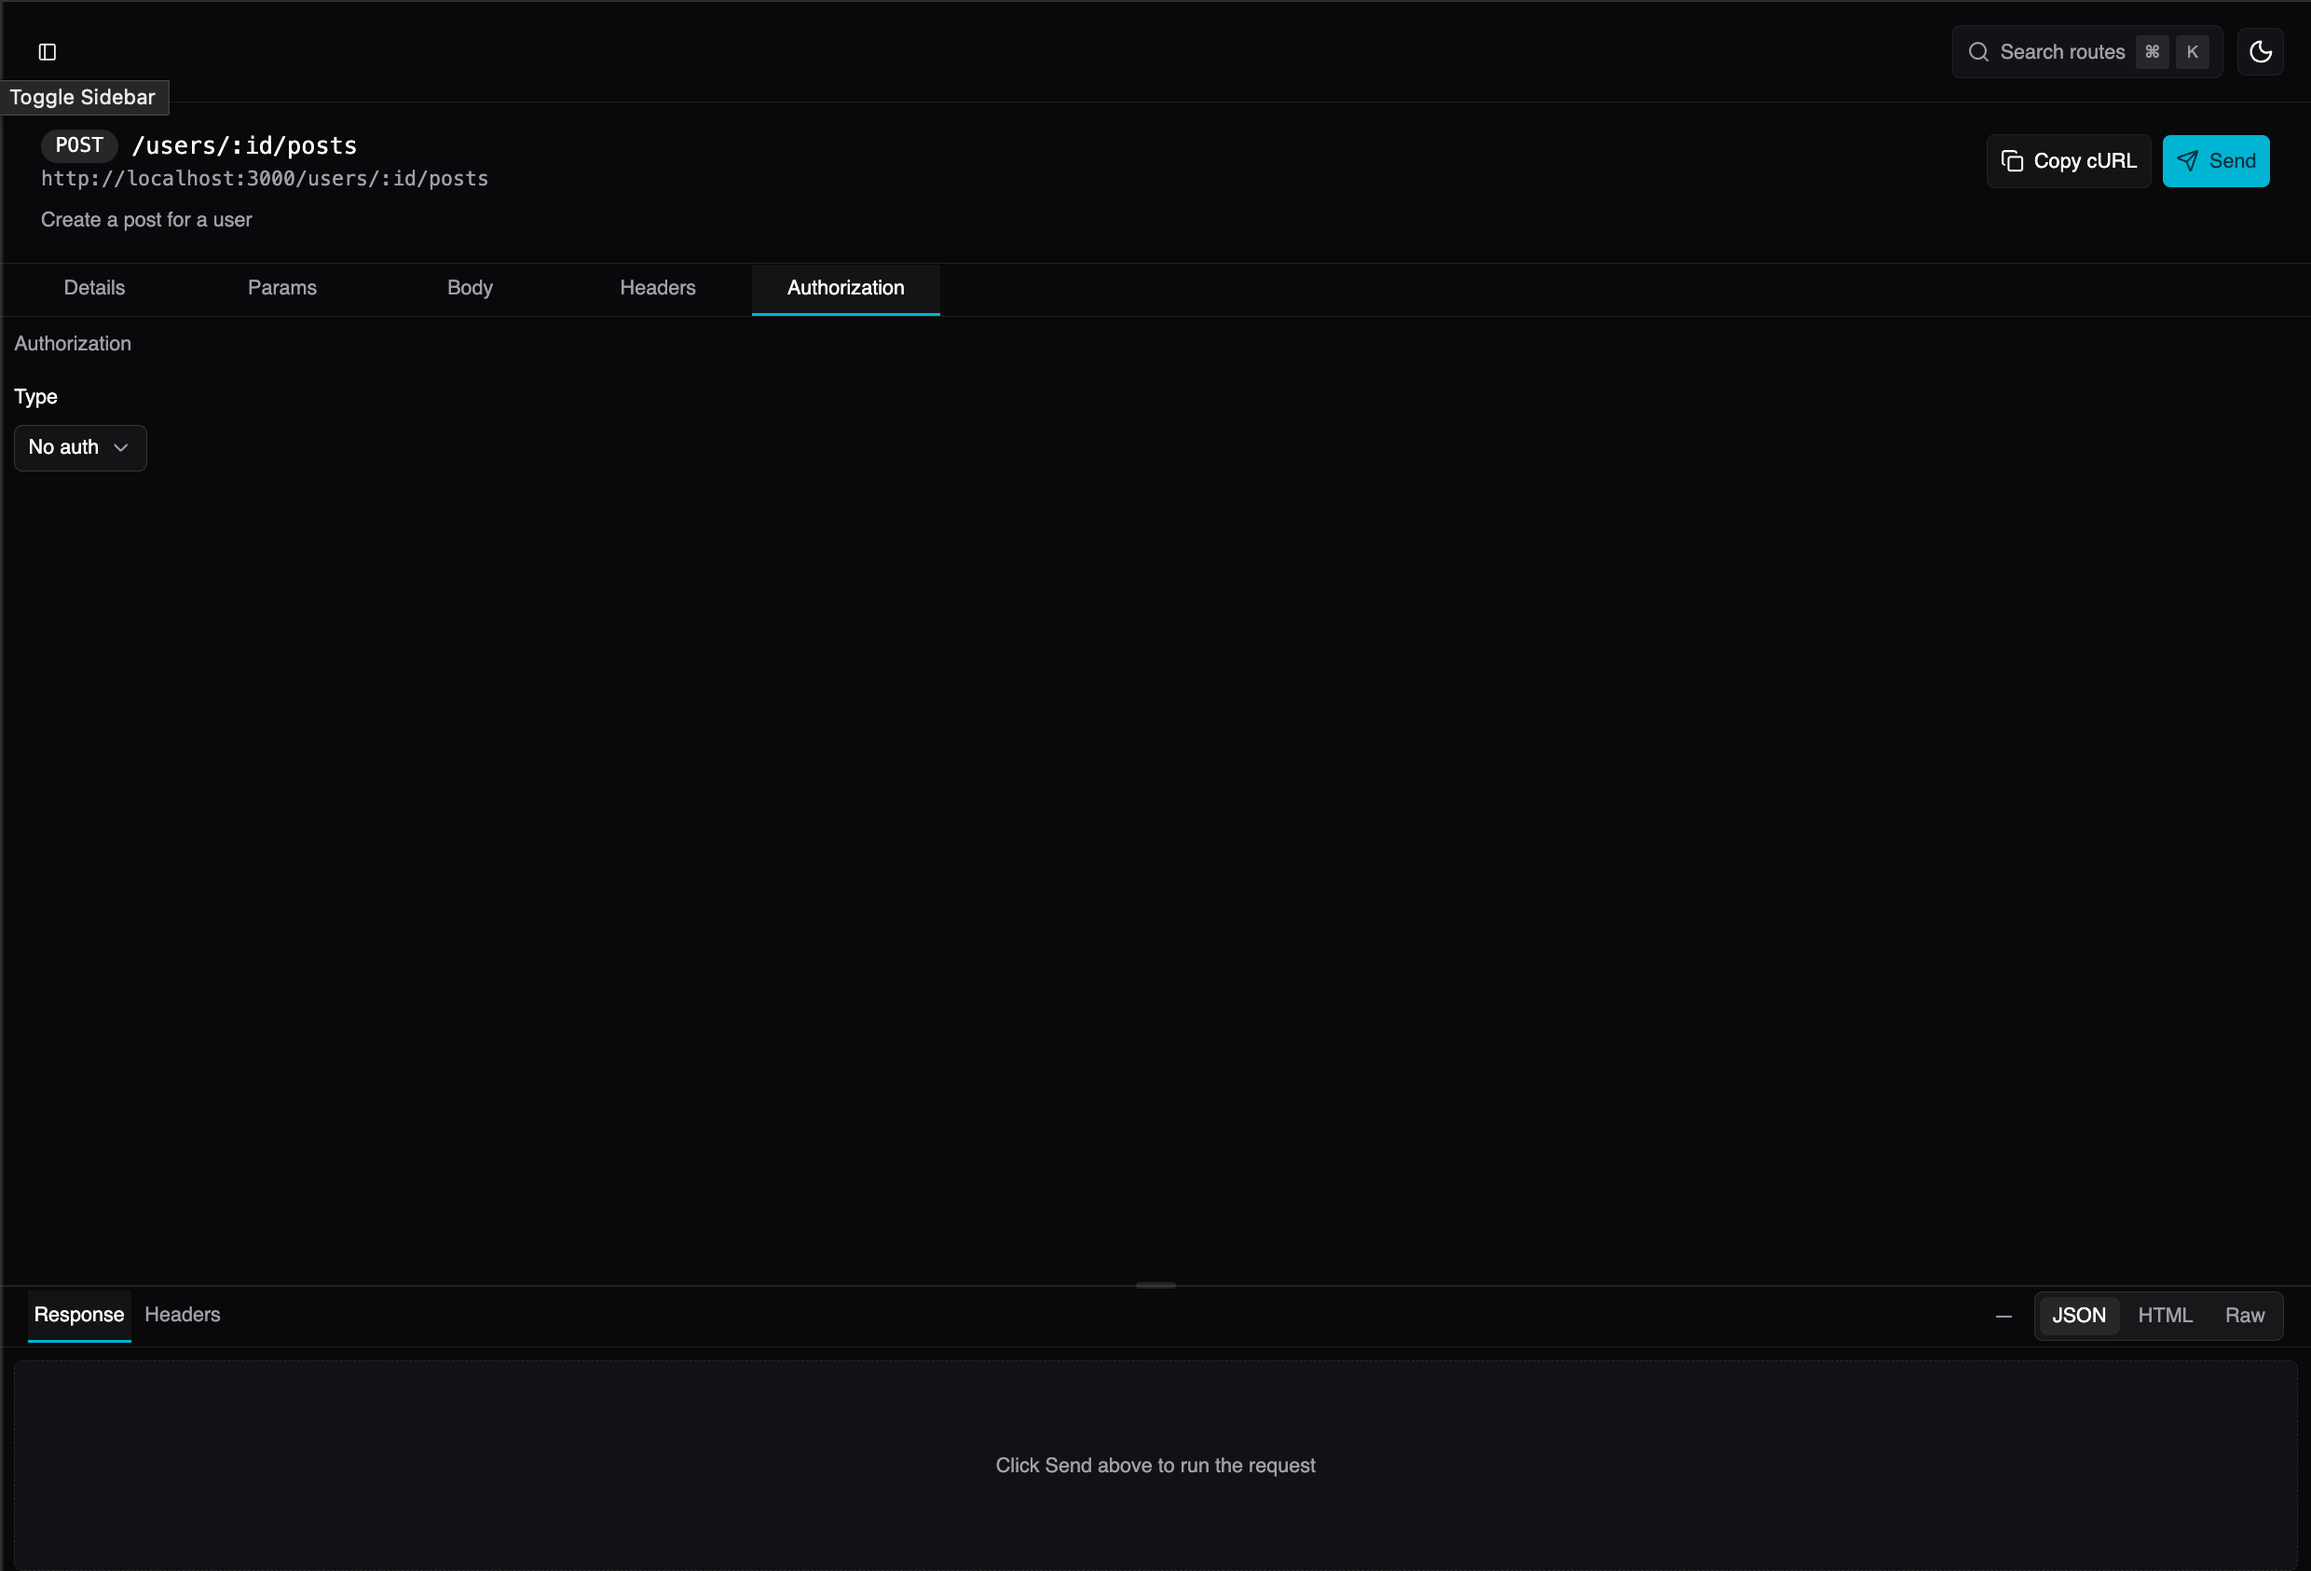
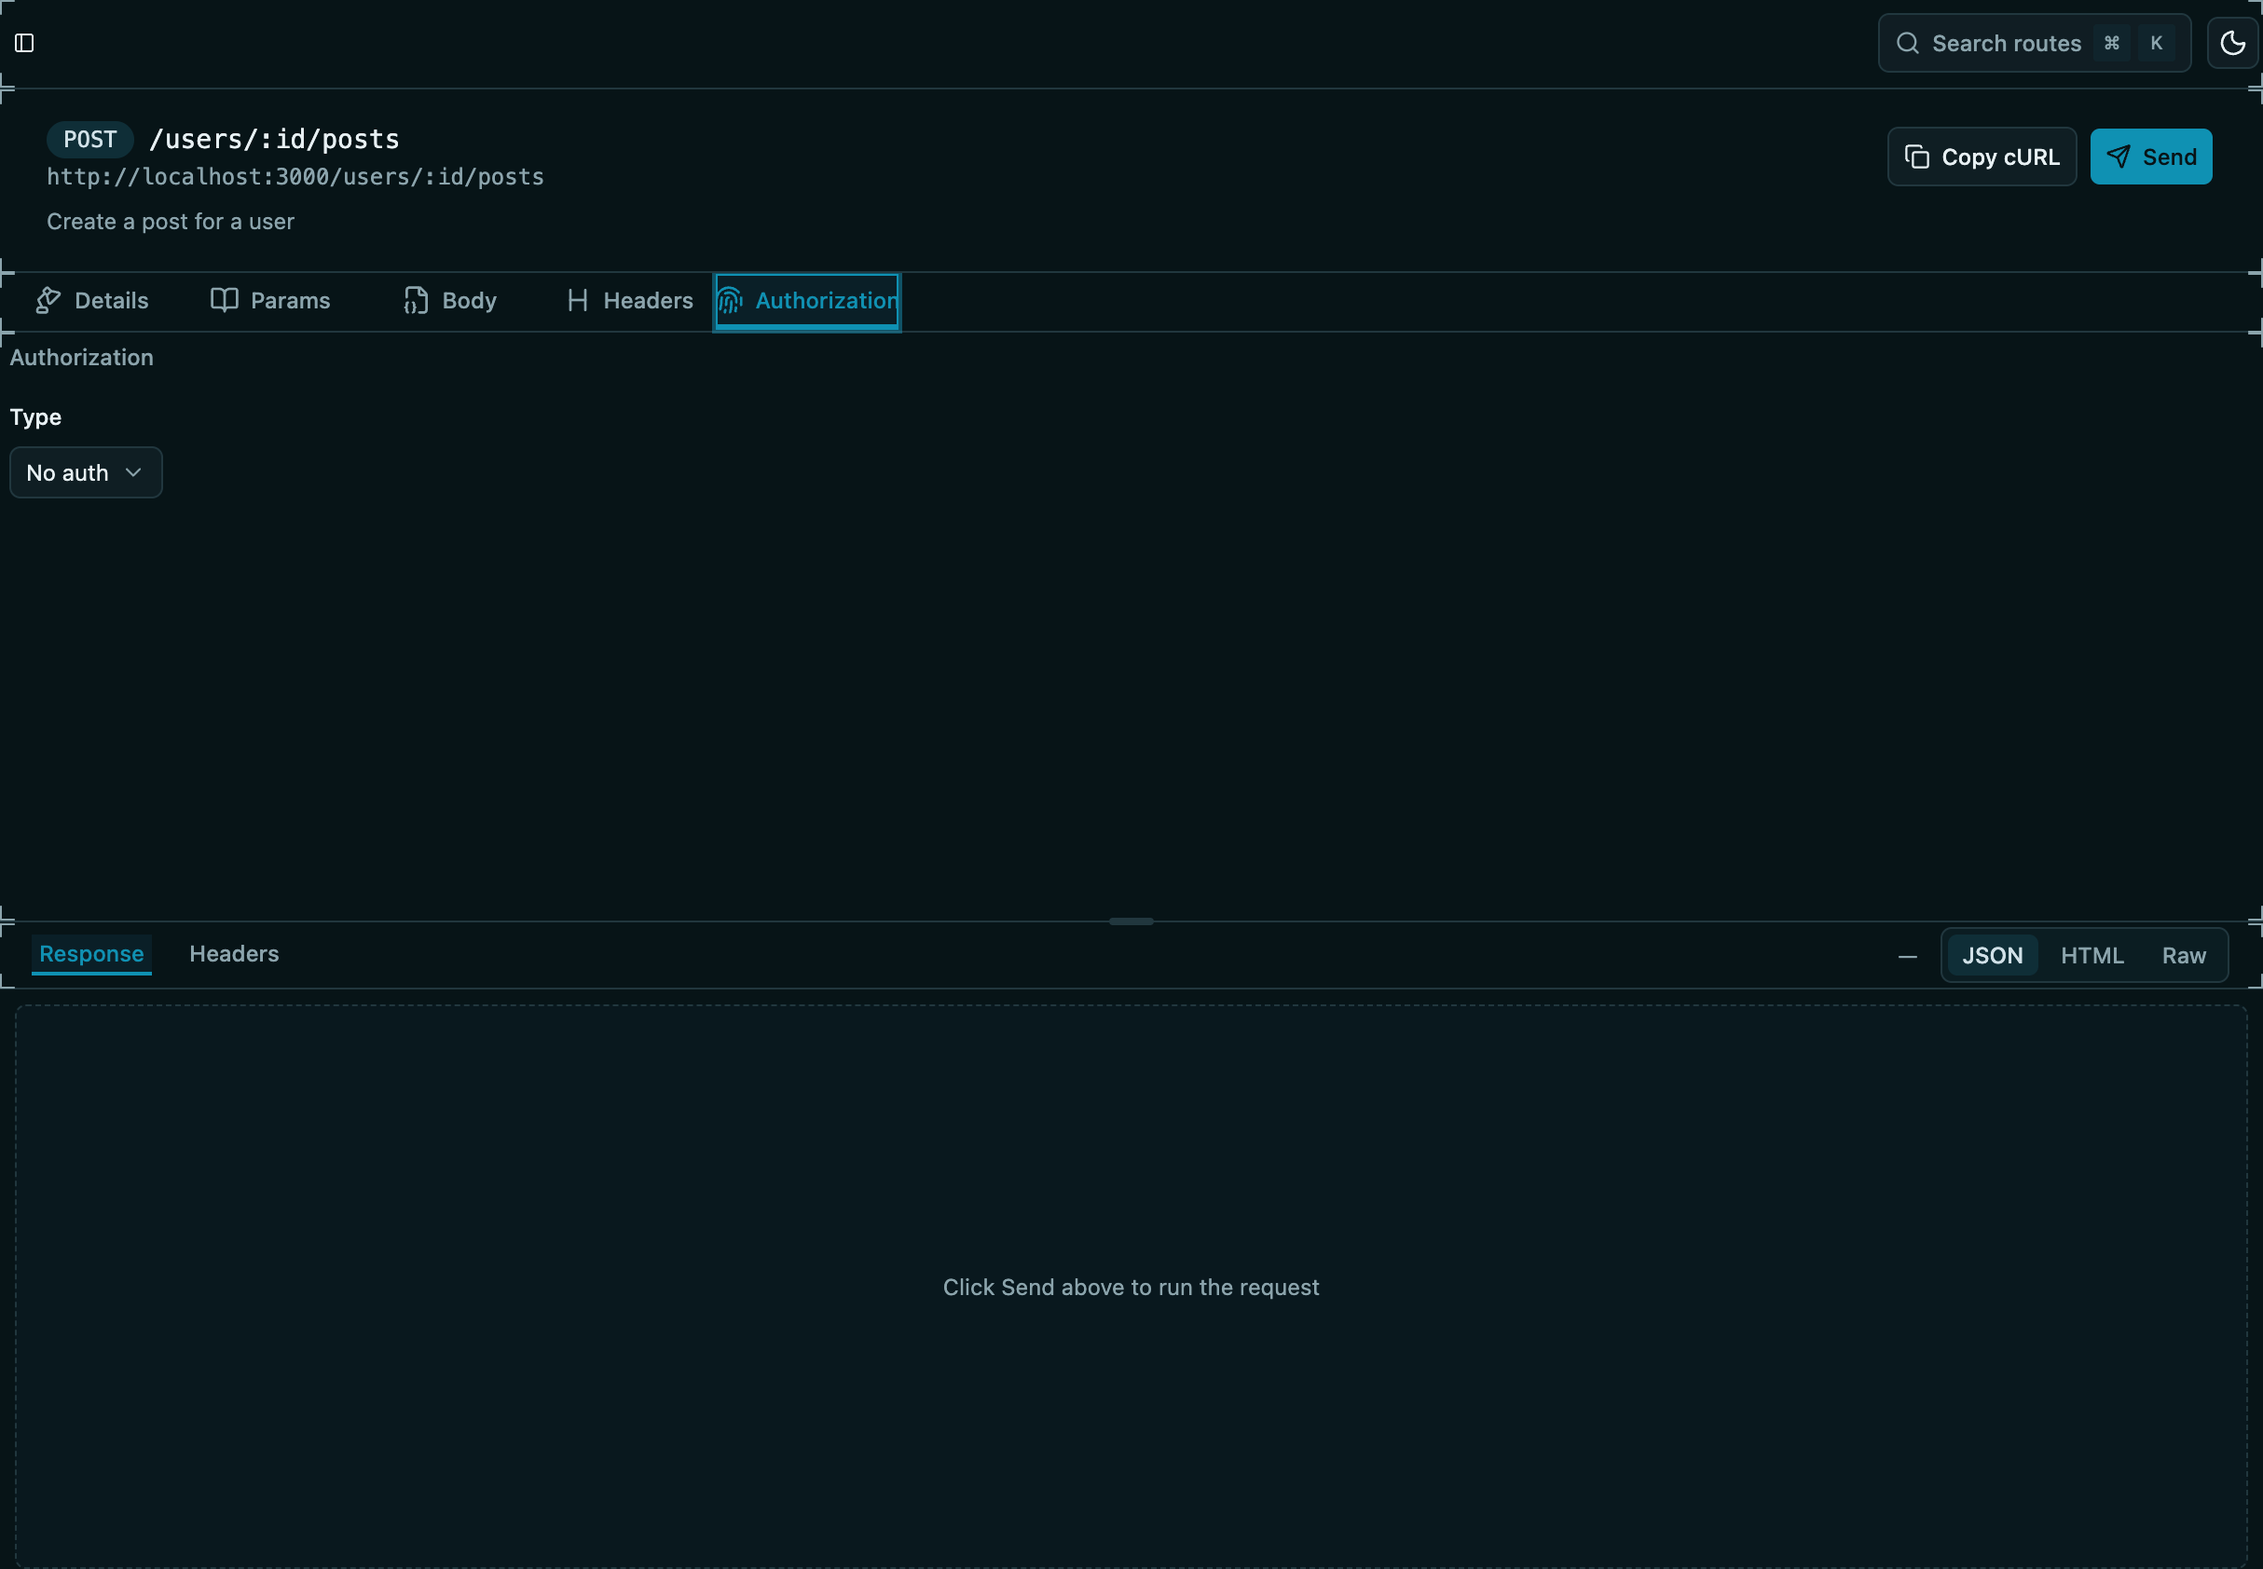
Update global styles, enhance feature showcase, and improve documentation
- Updated global CSS variables for fonts, colors, and shadows to enhance UI consistency.
- Modified feature showcase section to reflect updated Tracelet integration and improved code examples.
- Enhanced hero component text for clarity and conciseness.
- Updated MDX renderer to include border styling for images.
- Revised SDK documentation to simplify installation instructions and clarify usage examples for Tracelet core and Express SDKs.
- Added new screenshots for better visual representation of the application features.

diff --git a/apps/frontend/app/globals.css b/apps/frontend/app/globals.css
@@ -8,8 +8,8 @@
 @theme inline {
   --color-background: var(--background);
   --color-foreground: var(--foreground);
-  --font-sans: var(--font-sans);
-  --font-mono: var(--font-geist-mono);
+  --font-sans: Inter, system-ui, sans-serif;
+  --font-mono: JetBrains Mono, monospace;
   --color-sidebar-ring: var(--sidebar-ring);
   --color-sidebar-border: var(--sidebar-border);
   --color-sidebar-accent-foreground: var(--sidebar-accent-foreground);
@@ -46,80 +46,145 @@
   --radius-2xl: calc(var(--radius) + 8px);
   --radius-3xl: calc(var(--radius) + 12px);
   --radius-4xl: calc(var(--radius) + 16px);
+  --font-serif: Georgia, serif;
+  --radius: 0.5rem;
+  --tracking-tighter: calc(var(--tracking-normal) - 0.05em);
+  --tracking-tight: calc(var(--tracking-normal) - 0.025em);
+  --tracking-wide: calc(var(--tracking-normal) + 0.025em);
+  --tracking-wider: calc(var(--tracking-normal) + 0.05em);
+  --tracking-widest: calc(var(--tracking-normal) + 0.1em);
+  --tracking-normal: var(--tracking-normal);
+  --shadow-2xl: var(--shadow-2xl);
+  --shadow-xl: var(--shadow-xl);
+  --shadow-lg: var(--shadow-lg);
+  --shadow-md: var(--shadow-md);
+  --shadow: var(--shadow);
+  --shadow-sm: var(--shadow-sm);
+  --shadow-xs: var(--shadow-xs);
+  --shadow-2xs: var(--shadow-2xs);
+  --spacing: var(--spacing);
+  --letter-spacing: var(--letter-spacing);
+  --shadow-offset-y: var(--shadow-offset-y);
+  --shadow-offset-x: var(--shadow-offset-x);
+  --shadow-spread: var(--shadow-spread);
+  --shadow-blur: var(--shadow-blur);
+  --shadow-opacity: var(--shadow-opacity);
+  --color-shadow-color: var(--shadow-color);
+  --color-destructive-foreground: var(--destructive-foreground);
 
   --breakpoint-md: 49rem;
   --breakpoint-lg: 65rem;
 }
 
 :root {
-  --background: oklch(1 0 0);
-  --foreground: oklch(0.145 0 0);
+  --radius: 0.5rem;
+  --background: oklch(0.9800 0.0100 222);
+  --foreground: oklch(0.2500 0.0500 222);
   --card: oklch(1 0 0);
-  --card-foreground: oklch(0.145 0 0);
+  --card-foreground: oklch(0.2500 0.0500 222);
   --popover: oklch(1 0 0);
-  --popover-foreground: oklch(0.145 0 0);
-  --primary: oklch(0.61 0.11 222);
-  --primary-foreground: oklch(0.98 0.02 201);
-  --secondary: oklch(0.967 0.001 286.375);
-  --secondary-foreground: oklch(0.21 0.006 285.885);
-  --muted: oklch(0.97 0 0);
-  --muted-foreground: oklch(0.556 0 0);
-  --accent: oklch(0.97 0 0);
-  --accent-foreground: oklch(0.205 0 0);
-  --destructive: oklch(0.58 0.22 27);
-  --border: oklch(0.922 0 0);
-  --input: oklch(0.922 0 0);
-  --ring: oklch(0.708 0 0);
-  --chart-1: oklch(0.87 0.12 207);
-  --chart-2: oklch(0.8 0.13 212);
-  --chart-3: oklch(0.71 0.13 215);
-  --chart-4: oklch(0.61 0.11 222);
-  --chart-5: oklch(0.52 0.09 223);
-  --radius: 0rem;
-  --sidebar: oklch(0.985 0 0);
-  --sidebar-foreground: oklch(0.145 0 0);
-  --sidebar-primary: oklch(0.61 0.11 222);
-  --sidebar-primary-foreground: oklch(0.98 0.02 201);
-  --sidebar-accent: oklch(0.97 0 0);
-  --sidebar-accent-foreground: oklch(0.205 0 0);
-  --sidebar-border: oklch(0.922 0 0);
-  --sidebar-ring: oklch(0.708 0 0);
-
-  --landing-nav-height: 64px;
+  --popover-foreground: oklch(0.2500 0.0500 222);
+  --primary: oklch(0.6100 0.1100 222);
+  --primary-foreground: oklch(0.9800 0.0100 222);
+  --secondary: oklch(0.9200 0.0300 222);
+  --secondary-foreground: oklch(0.3000 0.0800 222);
+  --muted: oklch(0.9500 0.0200 222);
+  --muted-foreground: oklch(0.4500 0.0500 222);
+  --accent: oklch(0.9200 0.0400 222);
+  --accent-foreground: oklch(0.3000 0.0800 222);
+  --destructive: oklch(0.6000 0.1800 25);
+  --border: oklch(0.8800 0.0200 222);
+  --input: oklch(0.8800 0.0200 222);
+  --ring: oklch(0.6100 0.1100 222);
+  --chart-1: oklch(0.6100 0.1100 222);
+  --chart-2: oklch(0.7000 0.0800 200);
+  --chart-3: oklch(0.5000 0.1200 250);
+  --chart-4: oklch(0.7500 0.1000 180);
+  --chart-5: oklch(0.5500 0.0900 210);
+  --sidebar: oklch(0.9800 0.0100 222);
+  --sidebar-foreground: oklch(0.3000 0.0500 222);
+  --sidebar-primary: oklch(0.6100 0.1100 222);
+  --sidebar-primary-foreground: oklch(0.9800 0.0100 222);
+  --sidebar-accent: oklch(0.9200 0.0300 222);
+  --sidebar-accent-foreground: oklch(0.2000 0.0500 222);
+  --sidebar-border: oklch(0.9000 0.0200 222);
+  --sidebar-ring: oklch(0.6100 0.1100 222);
+  --destructive-foreground: oklch(0.9800 0.0100 222);
+  --font-sans: Inter, system-ui, sans-serif;
+  --font-serif: Georgia, serif;
+  --font-mono: JetBrains Mono, monospace;
+  --shadow-color: oklch(0 0 0);
+  --shadow-opacity: 0.05;
+  --shadow-blur: 10px;
+  --shadow-spread: 0px;
+  --shadow-offset-x: 0px;
+  --shadow-offset-y: 4px;
+  --letter-spacing: -0.01em;
+  --spacing: 0.25rem;
+  --shadow-2xs: 0px 4px 10px 0px hsl(0 0% 0% / 0.03);
+  --shadow-xs: 0px 4px 10px 0px hsl(0 0% 0% / 0.03);
+  --shadow-sm: 0px 4px 10px 0px hsl(0 0% 0% / 0.05), 0px 1px 2px -1px hsl(0 0% 0% / 0.05);
+  --shadow: 0px 4px 10px 0px hsl(0 0% 0% / 0.05), 0px 1px 2px -1px hsl(0 0% 0% / 0.05);
+  --shadow-md: 0px 4px 10px 0px hsl(0 0% 0% / 0.05), 0px 2px 4px -1px hsl(0 0% 0% / 0.05);
+  --shadow-lg: 0px 4px 10px 0px hsl(0 0% 0% / 0.05), 0px 4px 6px -1px hsl(0 0% 0% / 0.05);
+  --shadow-xl: 0px 4px 10px 0px hsl(0 0% 0% / 0.05), 0px 8px 10px -1px hsl(0 0% 0% / 0.05);
+  --shadow-2xl: 0px 4px 10px 0px hsl(0 0% 0% / 0.13);
+  --tracking-normal: -0.01em;
 }
 
 .dark {
-  --background: oklch(0.145 0 0);
-  --foreground: oklch(0.985 0 0);
-  --card: oklch(0.205 0 0);
-  --card-foreground: oklch(0.985 0 0);
-  --popover: oklch(0.205 0 0);
-  --popover-foreground: oklch(0.985 0 0);
-  --primary: oklch(0.71 0.13 215);
-  --primary-foreground: oklch(0.3 0.05 230);
-  --secondary: oklch(0.274 0.006 286.033);
-  --secondary-foreground: oklch(0.985 0 0);
-  --muted: oklch(0.269 0 0);
-  --muted-foreground: oklch(0.708 0 0);
-  --accent: oklch(0.371 0 0);
-  --accent-foreground: oklch(0.985 0 0);
-  --destructive: oklch(0.704 0.191 22.216);
-  --border: oklch(1 0 0 / 10%);
-  --input: oklch(1 0 0 / 15%);
-  --ring: oklch(0.556 0 0);
-  --chart-1: oklch(0.87 0.12 207);
-  --chart-2: oklch(0.8 0.13 212);
-  --chart-3: oklch(0.71 0.13 215);
-  --chart-4: oklch(0.61 0.11 222);
-  --chart-5: oklch(0.52 0.09 223);
-  --sidebar: oklch(0.205 0 0);
-  --sidebar-foreground: oklch(0.985 0 0);
-  --sidebar-primary: oklch(0.8 0.13 212);
-  --sidebar-primary-foreground: oklch(0.3 0.05 230);
-  --sidebar-accent: oklch(0.269 0 0);
-  --sidebar-accent-foreground: oklch(0.985 0 0);
-  --sidebar-border: oklch(1 0 0 / 10%);
-  --sidebar-ring: oklch(0.556 0 0);
+  --background: oklch(0.1800 0.0200 222);
+  --foreground: oklch(0.9500 0.0100 222);
+  --card: oklch(0.2200 0.0200 222);
+  --card-foreground: oklch(0.9500 0.0100 222);
+  --popover: oklch(0.1800 0.0200 222);
+  --popover-foreground: oklch(0.9500 0.0100 222);
+  --primary: oklch(0.6100 0.1100 222);
+  --primary-foreground: oklch(0.1800 0.0200 222);
+  --secondary: oklch(0.2800 0.0400 222);
+  --secondary-foreground: oklch(0.9000 0.0200 222);
+  --muted: oklch(0.2500 0.0300 222);
+  --muted-foreground: oklch(0.7000 0.0300 222);
+  --accent: oklch(0.3000 0.0600 222);
+  --accent-foreground: oklch(0.9500 0.0100 222);
+  --destructive: oklch(0.4500 0.1500 25);
+  --border: oklch(0.3200 0.0300 222);
+  --input: oklch(0.3200 0.0300 222);
+  --ring: oklch(0.6100 0.1100 222);
+  --chart-1: oklch(0.6100 0.1100 222);
+  --chart-2: oklch(0.5500 0.0900 210);
+  --chart-3: oklch(0.7000 0.0800 200);
+  --chart-4: oklch(0.5000 0.1200 250);
+  --chart-5: oklch(0.6500 0.1000 230);
+  --sidebar: oklch(0.2000 0.0200 222);
+  --sidebar-foreground: oklch(0.9000 0.0200 222);
+  --sidebar-primary: oklch(0.6100 0.1100 222);
+  --sidebar-primary-foreground: oklch(0.1800 0.0200 222);
+  --sidebar-accent: oklch(0.2800 0.0400 222);
+  --sidebar-accent-foreground: oklch(0.9500 0.0100 222);
+  --sidebar-border: oklch(0.3000 0.0300 222);
+  --sidebar-ring: oklch(0.6100 0.1100 222);
+  --destructive-foreground: oklch(0.9500 0.0100 222);
+  --radius: 0.5rem;
+  --font-sans: Inter, system-ui, sans-serif;
+  --font-serif: Georgia, serif;
+  --font-mono: JetBrains Mono, monospace;
+  --shadow-color: oklch(0 0 0);
+  --shadow-opacity: 0.4;
+  --shadow-blur: 15px;
+  --shadow-spread: 0px;
+  --shadow-offset-x: 0px;
+  --shadow-offset-y: 8px;
+  --letter-spacing: -0.01em;
+  --spacing: 0.25rem;
+  --shadow-2xs: 0px 8px 15px 0px hsl(0 0% 0% / 0.20);
+  --shadow-xs: 0px 8px 15px 0px hsl(0 0% 0% / 0.20);
+  --shadow-sm: 0px 8px 15px 0px hsl(0 0% 0% / 0.40), 0px 1px 2px -1px hsl(0 0% 0% / 0.40);
+  --shadow: 0px 8px 15px 0px hsl(0 0% 0% / 0.40), 0px 1px 2px -1px hsl(0 0% 0% / 0.40);
+  --shadow-md: 0px 8px 15px 0px hsl(0 0% 0% / 0.40), 0px 2px 4px -1px hsl(0 0% 0% / 0.40);
+  --shadow-lg: 0px 8px 15px 0px hsl(0 0% 0% / 0.40), 0px 4px 6px -1px hsl(0 0% 0% / 0.40);
+  --shadow-xl: 0px 8px 15px 0px hsl(0 0% 0% / 0.40), 0px 8px 10px -1px hsl(0 0% 0% / 0.40);
+  --shadow-2xl: 0px 8px 15px 0px hsl(0 0% 0% / 1.00);
 }
 
 

diff --git a/apps/frontend/app/(landing)/_components/hero.tsx b/apps/frontend/app/(landing)/_components/hero.tsx
@@ -8,7 +8,7 @@ import Decorations from "@/components/ui/decorations";
 
 export function Hero() {
   return (
-    <div className="relative bg-background dark:bg-[#0a0a0b] border">
+    <div className="relative bg-background border">
       <Decorations />
 
       <section className="relative grid grid-cols-1 items-center lg:grid-cols-2">
@@ -23,14 +23,13 @@ export function Hero() {
             Observe and document
             <br />
             <span className="bg-linear-to-r from-primary to-primary/80 bg-clip-text text-transparent">
-              your APIs automatically.
+              your APIs.
             </span>
           </h1>
 
           <p className="mx-auto mt-6 max-w-xl text-lg text-muted-foreground leading-relaxed lg:mx-0">
-            Production-ready logs and live API docs for Express — from real
-            traffic and real routes. No decorators. No schemas. No duplicate
-            work.
+            Ship production-ready request logs and live API docs from one place.
+            No multiple schemas, no extra work.
           </p>
 
           <div className="mt-10 flex flex-wrap items-center justify-center gap-4 lg:justify-start">

diff --git a/apps/frontend/app/(landing)/_components/feature-showcase-section.tsx b/apps/frontend/app/(landing)/_components/feature-showcase-section.tsx
@@ -17,12 +17,12 @@ const tabs = [
       "Add a single middleware. Tracelet captures routes, logs traffic, and serves docs. No decorators, no schema definitions.",
     content: "code",
     code: `import express from "express";
-import { tracelet, traceletDoc } from "@tracelet/express";
+import { traceletExpress } from "@tracelet/express";
 
 const app = express();
 
 // Init Tracelet
-app.use(tracelet({ serviceName: "external-test", environment: "dev" }));
+traceletExpress({app, serviceName: "Your API", environment: "local"});
 
 // Your routes — Tracelet observes them automatically
 app.get("/users/:id", (req, res) => {
@@ -50,10 +50,10 @@ app.listen(3000);
     description:
       "Request context, payload shapes, response status, and timing. Everything you need to debug without extra tooling.",
     content: "code",
-    code: `[tracelet] GET /users/42 200 12ms
-  params: { id: "42" }
-  body: { ... }
-  status: 200`,
+    code: `[Your API] GET    /ping
+  304 REDIRECT  4ms  0 B  req:cbb17bc0  trace:cbb17bc0
+  2026-02-20T07:01:18.282Z
+payload: { ... }`,
     language: "text",
   },
   {

diff --git a/apps/frontend/app/(landing)/docs/_components/mdx-renderer.tsx b/apps/frontend/app/(landing)/docs/_components/mdx-renderer.tsx
@@ -271,7 +271,7 @@ const components = {
   img: (props: React.ComponentProps<"img">) => (
     <span className="relative">
       <Decorations />
-      <img className="rounded-md" {...props} />
+      <img className="rounded-md border" {...props} />
     </span>
   ),
 };
